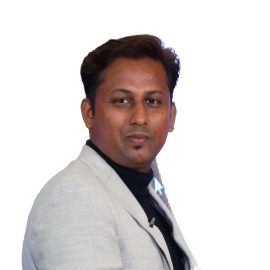
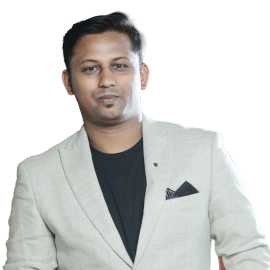
added photo & filea

diff --git a/index.html b/index.html
@@ -4,12 +4,18 @@
     <meta charset="UTF-8" />
     <meta http-equiv="X-UA-Compatible" content="IE=edge" />
     <meta name="viewport" content="width=device-width, initial-scale=1.0" />
-    <title>Thinkthon</title>
+    <link rel="icon" type="image/x-icon" href="/assets/img/favicon.ico">
+
+    <title>Thinkathon - Software Development Company | Thinkitive </title>
     <link
       href="https://cdn.jsdelivr.net/npm/bootstrap@5.0.2/dist/css/bootstrap.min.css"
       rel="stylesheet"
       integrity="sha384-EVSTQN3/azprG1Anm3QDgpJLIm9Nao0Yz1ztcQTwFspd3yD65VohhpuuCOmLASjC"
       crossorigin="anonymous"
+    />
+    <link
+      rel="stylesheet"
+      href="https://netdna.bootstrapcdn.com/font-awesome/4.0.3/css/font-awesome.css"
     />
     <link rel="stylesheet" href="./css/style.css" />
     <link rel="stylesheet" href="./css/videoplaybtn.css" />
@@ -307,17 +313,6 @@
 
       <section class="commonSection faq-section stacks-gutter">
         <div class="container demo">
-          <!-- <div class="row">
-            <div class="col col-lg-12 col-md-12 col-sm-12">
-              <div class="commonSection_header">
-                <h2 class="commonSection_title h2_head">
-                  Frequently Ask Questions on
-                  <span class="blue-text"> Staff Augmentation</span>
-                </h2>
-                <span class="blue-border-line">&nbsp;</span>
-              </div>
-            </div>
-          </div> -->
           <div class="faqSection">
             <div class="container">
               <div class="row">
@@ -333,7 +328,7 @@
                           aria-expanded="true"
                           aria-controls="collapseOne"
                         >
-                          Question text goes here
+                          What is the code of conduct?
                         </button>
                       </h2>
                       <div
@@ -344,22 +339,26 @@
                         style=""
                       >
                         <div class="accordion-body">
-                          Vitae eu tortor ullamcorper cursus ultricies
-                          consectetur integer vivamus cursus. Faucibus enim
-                          venenatis at a pulvinar. Turpis mauris rhoncus lorem
-                          sodales semper tincidunt etiam. Sed quis faucibus
-                          pellentesque amet. Risus nisl purus quam semper elit
-                          purus cras. Turpis augue nulla mauris odio etiam
-                          lectus scelerisque dapibus. Donec metus mi quisque
-                          amet commodo sit auctor non tristique. Pharetra id
-                          donec diam lacus. Sed commodo ullamcorper egestas
-                          velit risus auctor consectetur varius. Hendrerit
-                          auctor fringilla in lectus diam ultricies sem.
-                          Eleifend nunc ipsum ultrices tortor. At tristique eget
-                          viverra lectus feugiat eget sed. Mi imperdiet diam
-                          turpis odio congue sed. Tristique at enim at sed
-                          lobortis auctor vitae. Vehicula tristique lectus
-                          lectus hac orci praesent ut.
+                          <p>
+                            This is an educational experience and we want you to
+                            learn as much as you can. We request you abide by
+                            the following rules:
+                          </p>
+                          <div class="faq-list">
+                            <ul>
+                              <li>
+                                Any help from other team members will lead to
+                                disqualification.
+                              </li>
+                              <li>
+                                Teams must stop hacking once the time is up.
+                              </li>
+                              <li>
+                                All work on a project should be done during the
+                                hackathon.
+                              </li>
+                            </ul>
+                          </div>
                         </div>
                       </div>
                     </div>
@@ -373,7 +372,7 @@
                           aria-expanded="false"
                           aria-controls="collapseTwo"
                         >
-                          Question text goes here
+                          Do I need to form a team?
                         </button>
                       </h2>
                       <div
@@ -383,15 +382,8 @@
                         data-bs-parent="#accordionExample"
                       >
                         <div class="accordion-body">
-                          We allow you to conduct as many interviews as possible
-                          before hiring your preferred developer from us. Once
-                          you approve, our hired remote developers will work as
-                          your dedicated resources from our cutting-edge
-                          development center. You have complete control over the
-                          resource while we handle developer retention,
-                          administrative support, and infrastructure. We sign
-                          NDAs to ensure that your concept and project are safe
-                          with us.
+                          Yes, you need to form a team. Thinkathon teams will be
+                          of maximum 8 people.
                         </div>
                       </div>
                     </div>
@@ -405,7 +397,7 @@
                           aria-expanded="false"
                           aria-controls="collapseThree"
                         >
-                          Question text goes here
+                          How do I choose a project?
                         </button>
                       </h2>
                       <div
@@ -415,9 +407,8 @@
                         data-bs-parent="#accordionExample"
                       >
                         <div class="accordion-body">
-                          Thinkitive appoints professional project managers to
-                          serve as a single point of contact for all
-                          requirements.
+                          On the day of the event all the team leads will pick
+                          up chit with a problem statement written on it.
                         </div>
                       </div>
                     </div>
@@ -431,7 +422,7 @@
                           aria-expanded="false"
                           aria-controls="collapseFour"
                         >
-                          Question text goes here
+                          Are there prizes?
                         </button>
                       </h2>
                       <div
@@ -441,10 +432,8 @@
                         data-bs-parent="#accordionExample"
                       >
                         <div class="accordion-body">
-                          Yes, you can hire dedicated remote engineers who work
-                          following your deadline, milestone and your time zone
-                          (EST/PST/CST/MST). Please get in touch with us at
-                          sales@thinkitive.com for further details.
+                          Yes, we have cash money for the winning team which
+                          will be divided between all the team members.
                         </div>
                       </div>
                     </div>
@@ -458,7 +447,7 @@
                           aria-expanded="false"
                           aria-controls="collapseFive"
                         >
-                          Question text goes here
+                          Can we use code/design from our previous projects?
                         </button>
                       </h2>
                       <div
@@ -468,10 +457,9 @@
                         data-bs-parent="#accordionExample"
                       >
                         <div class="accordion-body">
-                          A dynamic IT staffing approach enables your business
-                          with additional personnel or a required tech stack. It
-                          maintains flexibility and cost-effectiveness in
-                          decision-making.
+                          No, participants are not allowed to re-use code from
+                          any of the clients projects. If done so, they will be
+                          disqualified.
                         </div>
                       </div>
                     </div>

diff --git a/mentors.html b/mentors.html
@@ -4,7 +4,9 @@
     <meta charset="UTF-8" />
     <meta http-equiv="X-UA-Compatible" content="IE=edge" />
     <meta name="viewport" content="width=device-width, initial-scale=1.0" />
-    <title>Thinkthon</title>
+
+    <link rel="icon" type="image/x-icon" href="/assets/img/favicon.ico" />
+    <title>Thinkthon Mentors - Software Development Company | Thinkitive</title>
     <link
       href="https://cdn.jsdelivr.net/npm/bootstrap@5.0.2/dist/css/bootstrap.min.css"
       rel="stylesheet"
@@ -94,7 +96,6 @@
                     and
                     <span class="greenText">Mentors!</span>
                   </h1>
-                 
                 </div>
               </div>
             </div>
@@ -231,7 +232,9 @@
                     <h6>Java Node EHR</h6>
                   </div>
                 </div>
-                <div class="col-lg-3 col-md-6 col-sm-12 col-xl-3 mb-30 mt-30 mt-3">
+                <div
+                  class="col-lg-3 col-md-6 col-sm-12 col-xl-3 mb-30 mt-30 mt-3"
+                >
                   <div class="content text-center">
                     <picture>
                       <img
@@ -239,14 +242,16 @@
                         height=""
                         style="border-radius: 5px"
                         alt="Client Video"
-                        src="./assets/img/dhanjay-kolte.png"
+                        src="./assets/img/djKolthe.png"
                       />
                     </picture>
                     <h4 class="mt-2">Dhananjay Kolte</h4>
                     <h6>Java - Mobile</h6>
                   </div>
                 </div>
-                <div class="col-lg-3 col-md-6 col-sm-12 col-xl-3 mb-30 mt-30 mt-3">
+                <div
+                  class="col-lg-3 col-md-6 col-sm-12 col-xl-3 mb-30 mt-30 mt-3"
+                >
                   <div class="content text-center">
                     <picture>
                       <img
@@ -261,7 +266,9 @@
                     <h6>Design</h6>
                   </div>
                 </div>
-                <div class="col-lg-3 col-md-6 col-sm-12 col-xl-3 mb-30 mt-30 mt-3">
+                <div
+                  class="col-lg-3 col-md-6 col-sm-12 col-xl-3 mb-30 mt-30 mt-3"
+                >
                   <div class="content text-center">
                     <picture>
                       <img
@@ -276,7 +283,9 @@
                     <h6>Python Core</h6>
                   </div>
                 </div>
-                <div class="col-lg-3 col-md-6 col-sm-12 col-xl-3 mb-30 mt-30 mt-3">
+                <div
+                  class="col-lg-3 col-md-6 col-sm-12 col-xl-3 mb-30 mt-30 mt-3"
+                >
                   <div class="content text-center">
                     <picture>
                       <img
@@ -291,7 +300,9 @@
                     <h6>Python AI</h6>
                   </div>
                 </div>
-                <div class="col-lg-3 col-md-6 col-sm-12 col-xl-3 mb-30 mt-30 mt-3">
+                <div
+                  class="col-lg-3 col-md-6 col-sm-12 col-xl-3 mb-30 mt-30 mt-3"
+                >
                   <div class="content text-center">
                     <picture>
                       <img
@@ -306,7 +317,9 @@
                     <h6>QA Atom</h6>
                   </div>
                 </div>
-                <div class="col-lg-3 col-md-6 col-sm-12 col-xl-3 mb-30 mt-30 mt-3">
+                <div
+                  class="col-lg-3 col-md-6 col-sm-12 col-xl-3 mb-30 mt-30 mt-3"
+                >
                   <div class="content text-center">
                     <picture>
                       <img
@@ -321,7 +334,9 @@
                     <h6>QA Core</h6>
                   </div>
                 </div>
-                <div class="col-lg-3 col-md-6 col-sm-12 col-xl-3 mb-30 mt-30 mt-3">
+                <div
+                  class="col-lg-3 col-md-6 col-sm-12 col-xl-3 mb-30 mt-30 mt-3"
+                >
                   <div class="content text-center">
                     <picture>
                       <img

diff --git a/css/style.css b/css/style.css
@@ -135,6 +135,34 @@ ul {
   margin-right: 1rem;
 }
 
+.faq-list ul > li:before {
+  content: '\f006';
+  font-family: 'FontAwesome';
+  float: left;
+  margin-left: -1.5em;
+  color: #acca38;
+  height: 1.5rem;
+  width: 1.5rem;
+  display: block;
+  float: left;
+  margin-left: -1.5rem;
+  background-position: center;
+  background-repeat: no-repeat;
+  background-size: 100%;
+}
+.faq-list ul > li:before {
+  content: '\f006';
+  font-family: 'FontAwesome';
+  float: left;
+  margin-left: -1.5em;
+  color: #acca38;
+  /* background: url("../assets/img/listArrow.svg"); */
+  /* background-size: cover; */
+  background-position: center;
+  padding: 0.15rem;
+  margin-right: 1rem;
+}
+
 /* Header Section CSS stat */
 header {
   position: fixed;
@@ -723,15 +751,15 @@ header #menu-btn.is-active .line:nth-child(3) {
 }
 
 .accordion-button::after {
-  content: '\002B';
-    color: #E6E6E6;
-    font-weight: 400;
-    float: right;
-    margin-left: 5px;
-    font-size: 30px;
-    position: absolute;
-    right: 18px;
-    background-image: none !important
+  content: "\002B";
+  color: #e6e6e6;
+  font-weight: 400;
+  float: right;
+  margin-left: 5px;
+  font-size: 30px;
+  position: absolute;
+  right: 18px;
+  background-image: none !important;
 }
 .accordion-button:not(.collapsed)::after {
   content: "\2212";
@@ -743,7 +771,6 @@ header #menu-btn.is-active .line:nth-child(3) {
   position: absolute;
   right: 18px;
 }
-
 
 /* FOOTER CSS */
 

diff --git a/gallery.html b/gallery.html
@@ -4,7 +4,9 @@
     <meta charset="UTF-8" />
     <meta http-equiv="X-UA-Compatible" content="IE=edge" />
     <meta name="viewport" content="width=device-width, initial-scale=1.0" />
-    <title>Thinkthon</title>
+
+    <link rel="icon" type="image/x-icon" href="/assets/img/favicon.ico">
+    <title>Thinkathon - Gallery Software Development Company | Thinkitive</title>
     <link
       href="https://cdn.jsdelivr.net/npm/bootstrap@5.0.2/dist/css/bootstrap.min.css"
       rel="stylesheet"
